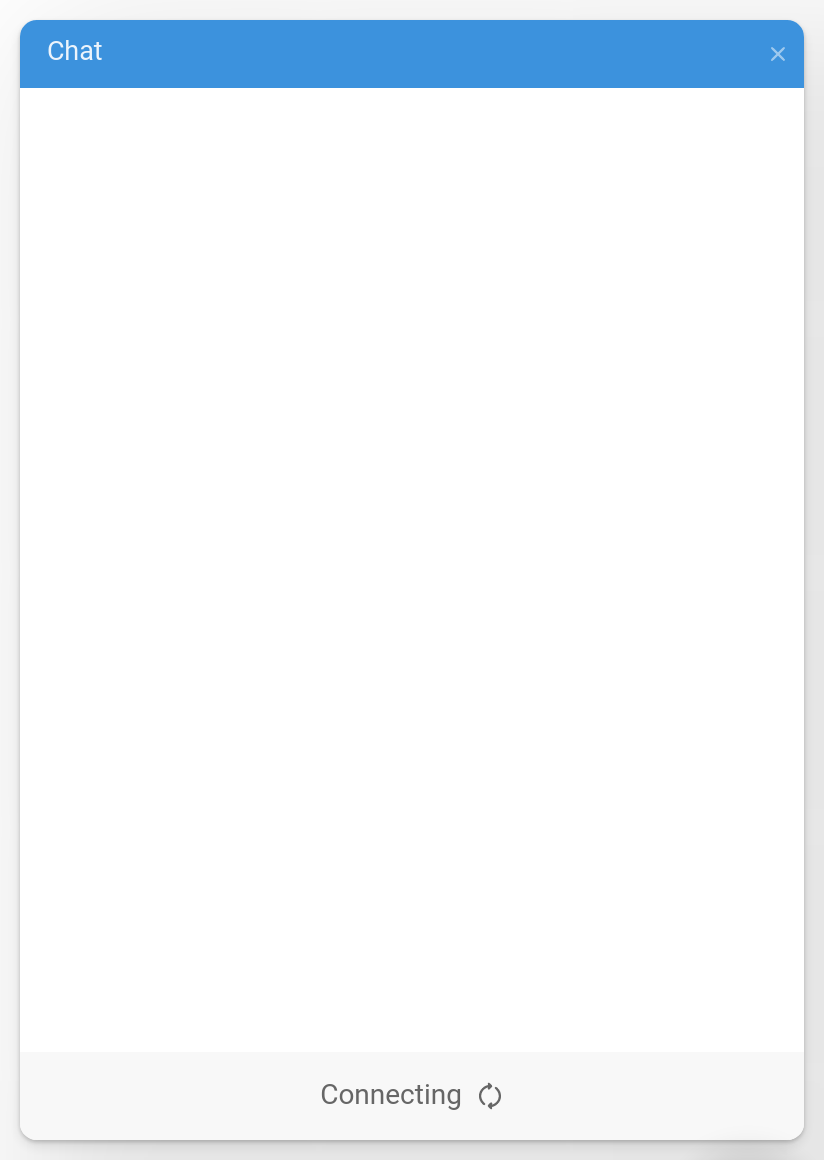
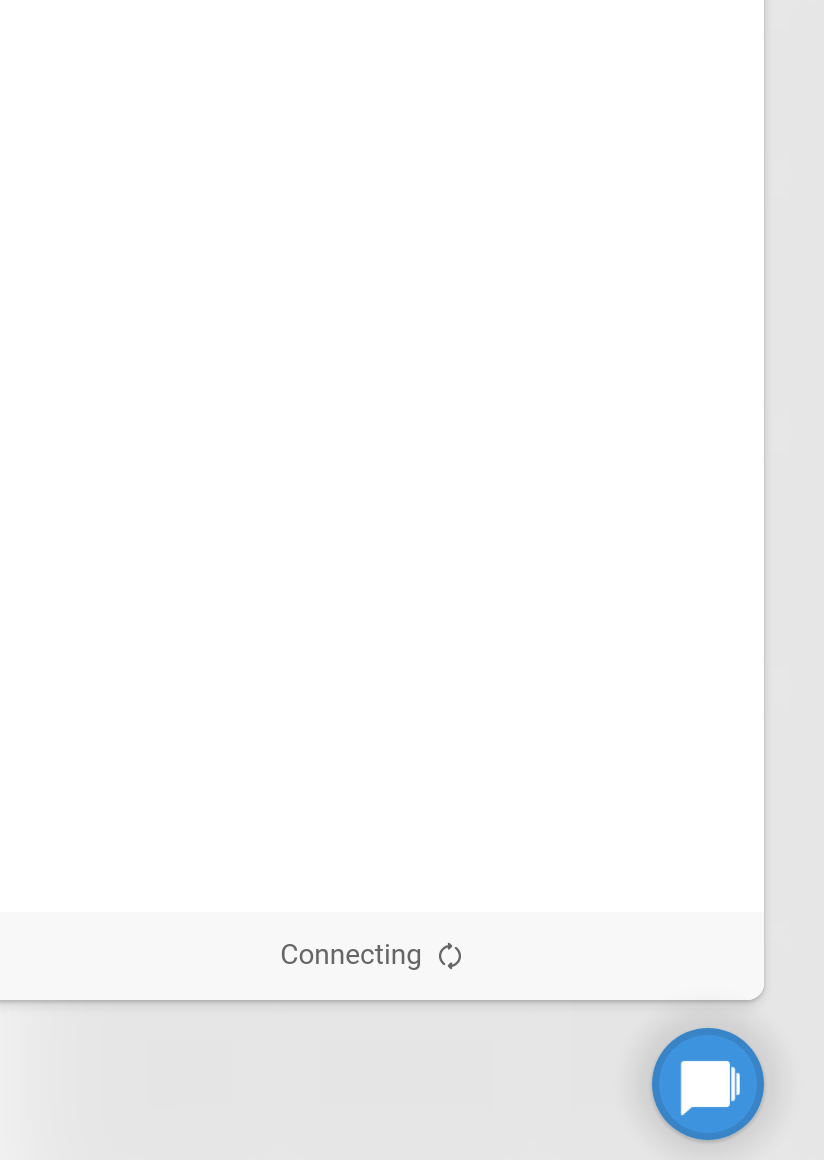
Address PR feedback: use mouseClickElement and improve connecting state test

Changed region(s): [[0.0, 0.0, 1.0, 0.9931], [0.0, 0.2793, 0.0303, 0.7759], [0.0, 0.1552, 0.0303, 0.2483]]

diff --git a/test/temba-webchat.test.ts b/test/temba-webchat.test.ts
@@ -4,7 +4,8 @@ import {
   assertScreenshot,
   getClip,
   getComponent,
-  mockNow
+  mockNow,
+  mouseClickElement
 } from '../test/utils.test';
 import { expect, assert } from '@open-wc/testing';
 import { stub, SinonStub } from 'sinon';
@@ -176,18 +177,22 @@ describe('temba-webchat', () => {
     
     it('renders connecting state', async () => {
       const webChat = await getWebChat({
-        channel: 'test-channel',
-        open: true,
-        status: 'connecting'
+        channel: 'test-channel'
       });
       
-      // Wait for component to be fully rendered
+      expect(webChat.open).to.equal(false);
+      expect(webChat.status).to.equal('disconnected');
+      
+      // Click to open the widget, which should trigger connecting state
+      const toggleElement = webChat.shadowRoot.querySelector('.toggle');
+      expect(toggleElement).to.exist;
+      
+      await mouseClickElement(toggleElement);
       await webChat.updateComplete;
       
-      // Advance fake timers to ensure animations are in a consistent state
-      // The spin animation has a 2000ms duration, so advance beyond that
-      clock.tick(5000); // Advance well past any animation cycles
-      await webChat.updateComplete;
+      // Now it should be open and connecting
+      expect(webChat.open).to.equal(true);
+      expect(webChat.status).to.equal('connecting');
       
       await assertScreenshot('webchat/connecting-state', getClip(webChat));
     });
@@ -221,17 +226,17 @@ describe('temba-webchat', () => {
       
       expect(webChat.open).to.equal(false);
       
-      // Click the toggle container (div wrapping the .toggle div)
-      const toggleContainer = webChat.shadowRoot.querySelector('.toggle').parentElement;
-      expect(toggleContainer).to.exist;
+      // Click the toggle element
+      const toggleElement = webChat.shadowRoot.querySelector('.toggle');
+      expect(toggleElement).to.exist;
       
-      toggleContainer.dispatchEvent(new MouseEvent('click'));
+      await mouseClickElement(toggleElement);
       await webChat.updateComplete;
       
       expect(webChat.open).to.equal(true);
       
       // Click toggle again
-      toggleContainer.dispatchEvent(new MouseEvent('click'));
+      await mouseClickElement(toggleElement);
       await webChat.updateComplete;
       
       expect(webChat.open).to.equal(false);
@@ -249,7 +254,7 @@ describe('temba-webchat', () => {
       const closeButton = webChat.shadowRoot.querySelector('.close-button');
       expect(closeButton).to.exist;
       
-      closeButton.dispatchEvent(new MouseEvent('click'));
+      await mouseClickElement(closeButton);
       await webChat.updateComplete;
       
       expect(webChat.open).to.equal(false);
@@ -416,7 +421,7 @@ describe('temba-webchat', () => {
       const reconnectButton = webChat.shadowRoot.querySelector('.reconnect');
       expect(reconnectButton).to.exist;
       
-      reconnectButton.dispatchEvent(new MouseEvent('click'));
+      await mouseClickElement(reconnectButton);
       await webChat.updateComplete;
       
       expect(webSocketStub.called).to.be.true;
@@ -709,7 +714,7 @@ describe('temba-webchat', () => {
       let focusCalled = false;
       inputField.focus = () => { focusCalled = true; };
       
-      inputPanel.dispatchEvent(new MouseEvent('click'));
+      await mouseClickElement(inputPanel);
       
       expect(focusCalled).to.be.true;
     });
